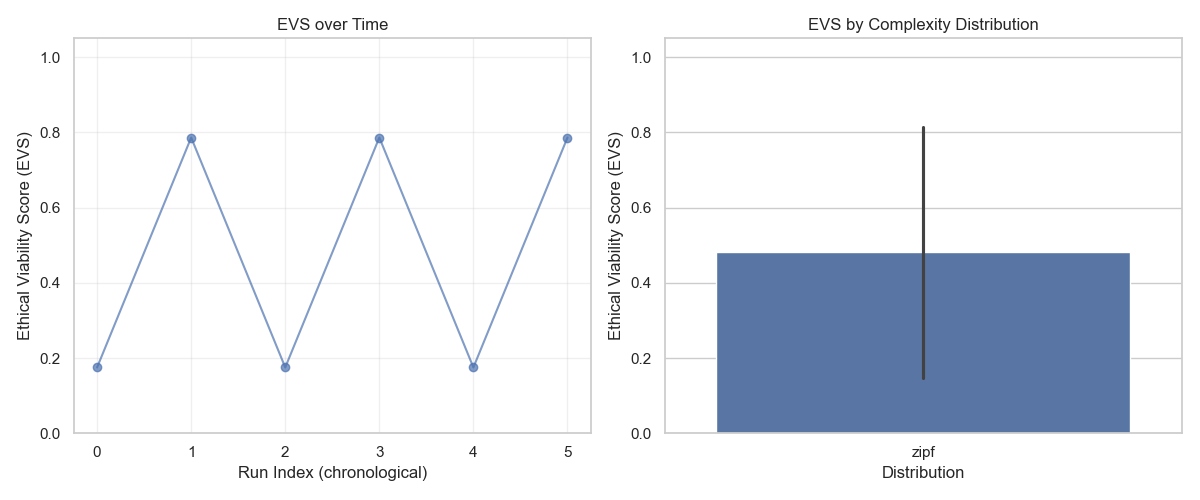
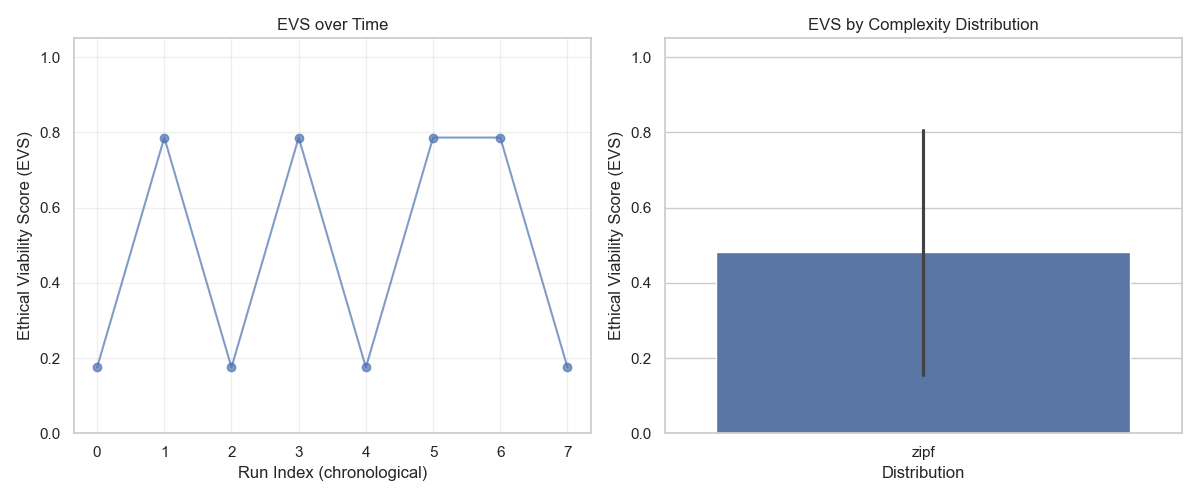
Add Phase 3 plan, docs and updated simulation results
Add a Phase 3 architecture & thesis plan (.cursor/plans/erh_phase3_architecture_thesis.plan.md). Update README formatting and document V(a) proxies and pipeline (HuggingFaceEthicalOracle, GroundTruthProxy.load_from_csv, OracleDrivenJudge). Extend LaTeX paper to mention the HuggingFace oracle and CSV/Oracle-driven judge. Refresh final report figures and summary (timestamp and total experiments increased). Add new simulation result artifacts (results/sim_result_zipf_... id0/id1) and update simulation output (phase_transition_results.json and figure) with revised error rates, stability values, and disable oracle/csv proxy in the phase transition output.

diff --git a/ethical_riemann_hypothesis.tex b/ethical_riemann_hypothesis.tex
@@ -142,7 +142,8 @@ Since $V(a)$ is epistemically inaccessible in the real world, we operationalize 
 \begin{itemize}
     \item \textbf{RLHF and human annotation}: High-quality human-labeled datasets (e.g., pairwise preferences used in reinforcement learning from human feedback) provide a practical proxy. We use annotator agreement and confidence scores to define $V(a)$.
     \item \textbf{Bradley-Terry model}: From pairwise preferences $(a_i \succ a_j)$ we infer latent scores via the Bradley-Terry model, yielding a scalar $V(a) \in [-1, 1]$ per action.
-    \item \textbf{Implementation}: Our framework supports \texttt{GroundTruthProxy.from\_mock\_rlhf()} for simulation and \texttt{load\_from\_csv()} for empirical datasets.
+    \item \textbf{HuggingFace Oracle}: Pre-trained models (e.g., \texttt{unitary/toxic-bert}) score action text as $V(a)$; less toxic $\mapsto$ more ethical. \texttt{HuggingFaceEthicalOracle} maps toxicity to $[-1,1]$ with JSON cache.
+    \item \textbf{Implementation}: Our framework supports \texttt{GroundTruthProxy.from\_mock\_rlhf()} for simulation, \texttt{load\_from\_csv()} for empirical datasets, and \texttt{OracleDrivenJudge} with optional \texttt{csv\_proxy} (CSV-first, Oracle fallback).
 \end{itemize}
 
 \textbf{Limitations}: Different proxies introduce different biases. Annotator disagreement, sampling noise, and cultural variation affect the approximation quality. ERH analysis remains heuristic when $V(a)$ is proxy-based.
@@ -472,10 +473,14 @@ Both are needed to assess judgment system quality.
 \toprule
 \textbf{Judge} & \textbf{Mistake Rate} & \textbf{MAE} & \textbf{F1} & $\bm{\alpha}$ & \textbf{ERH} & \textbf{Interpretation} \\
 \midrule
+\IfFileExists{simulation/output/figures/comparison_table_rows.tex}{%
+    \input{simulation/output/figures/comparison_table_rows.tex}%
+}{%
 Biased & [TBD] & [TBD] & [TBD] & [TBD] & [YES/NO] & [TBD] \\
 Noisy & [TBD] & [TBD] & [TBD] & [TBD] & [YES/NO] & [TBD] \\
 Conservative & [TBD] & [TBD] & [TBD] & [TBD] & [YES/NO] & [TBD] \\
 Radical & [TBD] & [TBD] & [TBD] & [TBD] & [YES/NO] & [TBD] \\
+}%
 \bottomrule
 \end{tabular}
 \end{table}

diff --git a/README.md b/README.md
@@ -1,4 +1,5 @@
 # Ethical Riemann Hypothesis (ERH)
+
 - https://pypi.org/project/erh/0.1.0/
 - https://www.npmjs.com/package/erh-js-sdk
 
@@ -23,12 +24,12 @@ This project introduces the **Ethical Riemann Hypothesis (ERH)**. It posits that
 
 ### Analogy with Number Theory
 
-| Number Theory Concept | Ethical Judgment Analogy |
-| :--- | :--- |
-| **Prime Numbers** | Ethical Primes (Critical Misjudgments) |
-| **$\pi(x)$** | $\Pi(x)$ (Count of ethical primes) |
-| **Prime Number Theorem** | Baseline Expectation $B(x)$ |
-| **Riemann Hypothesis** | Ethical Riemann Hypothesis (Bounds on error growth) |
+| Number Theory Concept          | Ethical Judgment Analogy                            |
+| :----------------------------- | :-------------------------------------------------- |
+| **Prime Numbers**        | Ethical Primes (Critical Misjudgments)              |
+| **$\pi(x)$**           | $\Pi(x)$ (Count of ethical primes)                |
+| **Prime Number Theorem** | Baseline Expectation$B(x)$                        |
+| **Riemann Hypothesis**   | Ethical Riemann Hypothesis (Bounds on error growth) |
 
 ---
 
@@ -36,19 +37,19 @@ This project introduces the **Ethical Riemann Hypothesis (ERH)**. It posits that
 
 Below are visualizations generated by the framework, showcasing the distribution of ethical primes and the behavior of the error term.
 
-| Zeta Function Analysis | Error Distribution |
-| :---: | :---: |
+|                                            Zeta Function Analysis                                            |                                            Error Distribution                                            |
+| :-----------------------------------------------------------------------------------------------------------: | :-------------------------------------------------------------------------------------------------------: |
 | ![Zeta Function Visualization](https://github.com/user-attachments/assets/86b7e910-dc49-4d9c-ab6e-bb8dd9dceb2a) | ![Error Distribution Plot](https://github.com/user-attachments/assets/f883510f-b0e5-479c-a792-a93b554618be) |
 
-| Prime Counting Function $\Pi(x)$ | Critical Line Analysis |
-| :---: | :---: |
+|                                     Prime Counting Function$\Pi(x)$                                     |                                          Critical Line Analysis                                          |
+| :-------------------------------------------------------------------------------------------------------: | :------------------------------------------------------------------------------------------------------: |
 | ![Prime Counting Function](https://github.com/user-attachments/assets/421f952c-a732-43fe-8049-6da2dba27e51) | ![Critical Line Analysis](https://github.com/user-attachments/assets/b1543552-036f-43b9-a35e-f058d8641683) |
 
 ---
 
 ## 📂 Project Structure
 
-**Architecture:** `erh_core` is the Single Source of Truth for core logic. The backend (`erh-security-app`) installs the root package in editable mode (`-e ../..`) to use the latest core. `simulation` and `erh` re-export from `erh_core` when available.
+**Architecture:** `erh_core` is the Single Source of Truth for core logic. The backend (`erh-security-app`) installs the root package in editable mode (`-e ../..`) to use the latest core. `simulation` and `erh` re-export from `erh_core` when available. **V(a) proxies**: `HuggingFaceEthicalOracle` (toxicity→ethical score), `GroundTruthProxy.load_from_csv()` (empirical data), `OracleDrivenJudge` (CSV-first, Oracle fallback). **Pipeline**: `run_simulation_batch --mode judge|abm`, `run_phase_transition_exp.py`, `run_full_pipeline.sh`.
 
 ```text
 Ethic-Latex/
@@ -90,16 +91,16 @@ Ethic-Latex/
 ├── tests/                      # Test files
 ├── ethical_riemann_hypothesis.tex  # Main research paper (LaTeX)
 └── requirements.txt            # Python dependencies
-````
+```
 
------
+---
 
 ## ⚡ Installation
 
 ### Prerequisites
 
-  - **Python:** 3.10 or later
-  - **LaTeX Distribution:** (Optional, for compiling the paper)
+- **Python:** 3.10 or later
+- **LaTeX Distribution:** (Optional, for compiling the paper)
 
 ### Python Setup
 
@@ -133,7 +134,7 @@ bibtex ethical_riemann_hypothesis
 pdflatex ethical_riemann_hypothesis.tex
 ```
 
------
+---
 
 ## 🚀 Quick Start
 
@@ -195,13 +196,13 @@ agent = AdversarialAgent(n_actions=500)
 agent.run(max_steps=100)
 ```
 
------
+---
 
 ## ☁ Cloud Deployment
 
-  - **🚀 Streamlit Cloud (Recommended - 5 minutes):** Push to GitHub, then deploy via the Streamlit website.
-  - **📓 Binder (For Notebooks - 2 minutes):** Deploy your notebooks for live access.
-  - **🐳 Docker (Any Platform):**
+- **🚀 Streamlit Cloud (Recommended - 5 minutes):** Push to GitHub, then deploy via the Streamlit website.
+- **📓 Binder (For Notebooks - 2 minutes):** Deploy your notebooks for live access.
+- **🐳 Docker (Any Platform):**
 
 <!-- end list -->
 
@@ -212,7 +213,7 @@ docker run -p 8501:8501 erh-app streamlit run simulation/app.py
 
 See `docs/CLOUD_DEPLOYMENT.md` for detailed guides.
 
------
+---
 
 ## 🔒 ERH-on-Security PoC Design Document
 
@@ -222,110 +223,110 @@ This design document outlines a Proof of Concept (PoC) applying the ERH framewor
 
 ### 1\. Objectives & Scope
 
-| Category | Description |
-| :--- | :--- |
+| Category               | Description                                                                                                                                     |
+| :--------------------- | :---------------------------------------------------------------------------------------------------------------------------------------------- |
 | **Core Problem** | Quantify the rate at which "truly fatal security misjudgments" (structural misjudgments) accumulate as the complexity of project changes grows. |
-| **Hypothesis** | Can we use an ERH-style metric to quantify this **Structural Risk Growth**? |
-| **Scope** | GitLab Merge Request security review pipeline (using SAST/DAST results and post-merge incident data as proxies for ground truth). |
+| **Hypothesis**   | Can we use an ERH-style metric to quantify this**Structural Risk Growth**?                                                                |
+| **Scope**        | GitLab Merge Request security review pipeline (using SAST/DAST results and post-merge incident data as proxies for ground truth).               |
 
 ### 2\. Mapping ERH to Security Context
 
-| ERH Concept | Security Context Mapping |
-| :--- | :--- |
-| **Action ($a$)** | Defined as a **security decision event** for a single **Merge Request (MR)**. |
-| **Complexity ($c(a)$)** | A composite metric of MR size and scope: $c(a) = \text{norm}(\log(1 + \text{lines\_changed}) + \lambda \cdot \text{files\_changed} + \dots)$ |
-| **True Value ($V(a)$)** | **Ground Truth.** $+1$: Safe merge (no post-merge incident/unresolved high issue). $-1$: Unsafe merge (resulted in incident or high-severity issue). |
+| ERH Concept                          | Security Context Mapping                                                                                                                                                                              |
+| :----------------------------------- | :---------------------------------------------------------------------------------------------------------------------------------------------------------------------------------------------------- |
+| **Action ($a$)**             | Defined as a**security decision event** for a single **Merge Request (MR)**.                                                                                                              |
+| **Complexity ($c(a)$)**      | A composite metric of MR size and scope:$c(a) = \text{norm}(\log(1 + \text{lines\_changed}) + \lambda \cdot \text{files\_changed} + \dots)$                                                         |
+| **True Value ($V(a)$)**      | **Ground Truth.** $+1$: Safe merge (no post-merge incident/unresolved high issue). $-1$: Unsafe merge (resulted in incident or high-severity issue).                                        |
 | **Judgment System ($J(a)$)** | **Pipeline Judge ($J_{\text{pipe}}$):** Automated CI/SAST results. **Human Judge ($J_{\text{human}}$):** Reviewer behavior/override. **Combined Judge ($J_{\text{combo}}$).** |
-| **Error ($\Delta(a)$)** | $\Delta(a) = J(a) - V(a)$. |
-| **Ethical Prime ($P$)** | A **Critical Misjudgment** ($M(a)=1$) on a **High-Importance** asset ($w(a)$ in top quantile). |
+| **Error ($\Delta(a)$)**      | $\Delta(a) = J(a) - V(a)$.                                                                                                                                                                          |
+| **Ethical Prime ($P$)**      | A**Critical Misjudgment** ($M(a)=1$) on a **High-Importance** asset ($w(a)$ in top quantile).                                                                                         |
 
 ### 3\. Data Schema Design
 
 #### actions (Core: MR Decisions)
 
-| Column | Type | Description |
-| :--- | :--- | :--- |
-| `action_id` | PK (MR ID) | Unique identifier for the decision event |
-| `lines_added` | int | Complexity factor |
-| `files_changed` | int | Complexity factor |
-| `services_touched`| string[] | Subsystems affected (via path mapping) |
-| `merged_at` | timestamp | Time of merge (nullable) |
+| Column               | Type       | Description                              |
+| :------------------- | :--------- | :--------------------------------------- |
+| `action_id`        | PK (MR ID) | Unique identifier for the decision event |
+| `lines_added`      | int        | Complexity factor                        |
+| `files_changed`    | int        | Complexity factor                        |
+| `services_touched` | string[]   | Subsystems affected (via path mapping)   |
+| `merged_at`        | timestamp  | Time of merge (nullable)                 |
 
 #### ground\_truth
 
-| Column | Type | Description |
-| :--- | :--- | :--- |
-| `action_id` | FK | Link to MR |
-| `V` | float [-1, 1] | **True Value** (Post-merge security impact) |
-| `has_post\_incident`| bool | Flag for incident discovery within observation window |
-| `unresolved\_high`| bool | True if merged with unmitigated high/critical issues |
+| Column                 | Type          | Description                                           |
+| :--------------------- | :------------ | :---------------------------------------------------- |
+| `action_id`          | FK            | Link to MR                                            |
+| `V`                  | float [-1, 1] | **True Value** (Post-merge security impact)     |
+| `has_post\_incident` | bool          | Flag for incident discovery within observation window |
+| `unresolved\_high`   | bool          | True if merged with unmitigated high/critical issues  |
 
 #### derived\_metrics (Calculated on-the-fly or materialized)
 
-| Column | Type | Description |
-| :--- | :--- | :--- |
-| `action_id` | FK | Link to MR |
-| `c` | float | Normalized **Complexity** |
-| `delta` | float | $\Delta(a)$ **Error** |
-| `is_prime` | bool | Flag indicating an **Ethical Prime** |
+| Column        | Type  | Description                               |
+| :------------ | :---- | :---------------------------------------- |
+| `action_id` | FK    | Link to MR                                |
+| `c`         | float | Normalized**Complexity**            |
+| `delta`     | float | $\Delta(a)$ **Error**             |
+| `is_prime`  | bool  | Flag indicating an**Ethical Prime** |
 
 ### 4\. ERH Analysis Flow and Metrics
 
-1.  **Preprocessing:** Ingest GitLab API data (MRs, security reports) and calculate $c(a)$, $V(a)$, $w(a)$, $J(a)$, and prime marking for all actions.
-2.  **ERH-style Metrics:** Compute the following for each judge:
+1. **Preprocessing:** Ingest GitLab API data (MRs, security reports) and calculate $c(a)$, $V(a)$, $w(a)$, $J(a)$, and prime marking for all actions.
+2. **ERH-style Metrics:** Compute the following for each judge:
 
-| Metric | Formula | Description |
-| :--- | :--- | :--- |
-| **Mistake Rate (MR)** | $\frac{1}{N} \sum M(a)$ | Overall misjudgment frequency. |
-| **Prime Count $\Pi(x)$** | Count of primes where $c(a) \leq x$. | Cumulative critical error count by complexity. |
-| **Error Growth $\alpha$** | Fit $|E(x)| \sim C \cdot x^\alpha$ | Log-log linear regression to find the exponent $\alpha$. |
+| Metric                            | Formula                               | Description                                               |
+| :-------------------------------- | :------------------------------------ | :-------------------------------------------------------- |
+| **Mistake Rate (MR)**       | $\frac{1}{N} \sum M(a)$             | Overall misjudgment frequency.                            |
+| **Prime Count $\Pi(x)$**  | Count of primes where$c(a) \leq x$. | Cumulative critical error count by complexity.            |
+| **Error Growth $\alpha$** | Fit$|E(x)| \sim C \cdot x^\alpha$   | Log-log linear regression to find the exponent$\alpha$. |
 
-3.  **Interpretation:** Check if $\alpha$ satisfies the ERH-style boundary. $\alpha \approx 0.5$ implies **Riemann-healthy** system with controlled risk growth. $\alpha \geq 1$ implies systematic degradation.
+3. **Interpretation:** Check if $\alpha$ satisfies the ERH-style boundary. $\alpha \approx 0.5$ implies **Riemann-healthy** system with controlled risk growth. $\alpha \geq 1$ implies systematic degradation.
 
------
+---
 
 ## 📈 Key Results (Expected)
 
 The following table is a placeholder to be filled with simulation results.
 
-| Judge Type | Exponent $\alpha$ | ERH Satisfied? | Growth Rate Interpretation |
-| :--- | :--- | :--- | :--- |
-| **Biased** | TBD | TBD | -- |
-| **Noisy** | TBD | TBD | -- |
-| **Conservative**| TBD | TBD | Low risk, potentially high friction ($\alpha < 0.5$) |
-| **Radical** | TBD | TBD | High risk accumulation, systematic failure ($\alpha \geq 1.0$) |
+| Judge Type             | Exponent$\alpha$ | ERH Satisfied? | Growth Rate Interpretation                                       |
+| :--------------------- | :----------------- | :------------- | :--------------------------------------------------------------- |
+| **Biased**       | TBD                | TBD            | --                                                               |
+| **Noisy**        | TBD                | TBD            | --                                                               |
+| **Conservative** | TBD                | TBD            | Low risk, potentially high friction ($\alpha < 0.5$)           |
+| **Radical**      | TBD                | TBD            | High risk accumulation, systematic failure ($\alpha \geq 1.0$) |
 
------
+---
 
 ## 📚 Documentation and Future Work
 
-  - **Simulation Framework:** See `simulation/README.md`
-  - **Installation Guide:** See `docs/INSTALL.md` (includes venv and optional qiskit/quantum setup)
-  - **Theory:** See `ethical_riemann_hypothesis.tex`
-  - **Tests:** `pytest tests/` (includes `test_quantum_entanglement.py`, psychohistory integration)
+- **Simulation Framework:** See `simulation/README.md`
+- **Installation Guide:** See `docs/INSTALL.md` (includes venv and optional qiskit/quantum setup)
+- **Theory:** See `ethical_riemann_hypothesis.tex`
+- **Tests:** `pytest tests/` (includes `test_quantum_entanglement.py`, psychohistory integration)
 
 ### Applications to AI Ethics
 
 The ERH framework provides:
 
-1.  **Quantitative Criterion**: AI systems should satisfy $|E(x)| = O(\sqrt{x})$.
-2.  **Bias Detection**: Violations of ERH indicate systematic failures.
-3.  **Fairness Analysis**: Ethical primes highlight critical errors on vulnerable groups.
+1. **Quantitative Criterion**: AI systems should satisfy $|E(x)| = O(\sqrt{x})$.
+2. **Bias Detection**: Violations of ERH indicate systematic failures.
+3. **Fairness Analysis**: Ethical primes highlight critical errors on vulnerable groups.
 
 ### Implemented Extensions
 
-  - **Real-world case studies:** Adult Income, COMPAS; script `scripts/calculate_alpha_comparison.py` compares real vs simulated α.
-  - **Quantum judgment:** Optional `simulation/quantum/` (local simulator or IBM Quantum); NumPy fallback when qiskit is unavailable.
-  - **Health monitor:** E(x) vs Riemann bound monitoring (see `erh-security-app` backend `/analysis/health` and frontend).
-  - **Adversarial agent:** `simulation/adversarial.py` for red-team testing (maximizing ethical-prime discovery).
+- **Real-world case studies:** Adult Income, COMPAS; script `scripts/calculate_alpha_comparison.py` compares real vs simulated α.
+- **Quantum judgment:** Optional `simulation/quantum/` (local simulator or IBM Quantum); NumPy fallback when qiskit is unavailable.
+- **Health monitor:** E(x) vs Riemann bound monitoring (see `erh-security-app` backend `/analysis/health` and frontend).
+- **Adversarial agent:** `simulation/adversarial.py` for red-team testing (maximizing ethical-prime discovery).
 
 ### Future Work
 
-  - Apply the framework to more real-world AI systems (e.g., content moderation).
-  - Develop theoretical proofs for ERH boundary conditions.
-  - Explore connections to causal inference.
+- Apply the framework to more real-world AI systems (e.g., content moderation).
+- Develop theoretical proofs for ERH boundary conditions.
+- Explore connections to causal inference.
 
------
+---
 
 ## © Citation and License
 

diff --git a/.cursor/plans/erh_phase3_architecture_thesis.plan.md b/.cursor/plans/erh_phase3_architecture_thesis.plan.md
@@ -1,0 +1,70 @@
+---
+name: ERH Phase 3 Architecture & Thesis
+overview: 延續 Phase 2 完成架構重整、論文審稿強化、量子 LaTeX 小節。對應 cursor.plan.md Part A–E，補齊剩餘項目。
+todos:
+  - id: p3-a1
+    content: A1 強化 V(a)/c(a) 操作定義：補 HuggingFace Oracle、程式引用
+    status: in_progress
+  - id: p3-a2
+    content: A2 ERH 必要條件、比較表（已有骨架，確保 generate 可填）
+    status: pending
+  - id: p3-a3
+    content: A3 ζ_E 零點/極點（已有 line 274，確認完整）
+    status: pending
+  - id: p3-a4
+    content: A4 fig:comparison、圖表（已有，驗證 generate_all_figures）
+    status: pending
+  - id: p3-b
+    content: B3 metrics.py 已用 erh_core；驗證 B4 pytest
+    status: pending
+  - id: p3-c
+    content: C3 plot_social_tension_vs_time、Quantum Ising LaTeX（已有）
+    status: pending
+  - id: p3-d
+    content: D run_simulation_batch、simulation.yml 驗證
+    status: pending
+  - id: p3-e
+    content: E README 架構說明
+    status: pending
+isProject: false
+---
+
+# ERH Phase 3: Architecture & Thesis Improvement
+
+## 與 Phase 2 的銜接
+
+Phase 2 已完成：
+- Quantum Core: compute_ground_state, NumPyMinimumEigensolver
+- HuggingFace Oracle, OracleDrivenJudge, csv_proxy
+- Phase transition: run_phase_transition_exp.py, plot_phase_transition
+- Pipeline: generate_comprehensive_report, CI phase-transition job, run_full_pipeline.sh
+
+## Phase 3 目標（對應 cursor.plan.md）
+
+1. **Part A 論文**：V(a)/c(a) 操作定義、ERH 必要非充分、ζ_E 零點/極點、圖表
+2. **Part B 架構**：erh_core 為 SSOT、erh-security-app 依賴
+3. **Part C 量子**：measure_social_tension、plot_social_tension_vs_time、LaTeX
+4. **Part D Pipeline**：run_simulation_batch --mode abm、EVS、phase transition
+5. **Part E 文檔**：README 架構說明
+
+## 現況檢查
+
+| 項目 | 狀態 |
+|------|------|
+| measure_social_tension() | ✅ simulator.py |
+| calculate_evs() | ✅ statistics.py |
+| plot_social_tension_vs_time | ✅ plots.py |
+| plot_phase_transition_error_vs_complexity | ✅ plots.py |
+| run_simulation_batch --mode abm | ✅ |
+| erh-security-app -e ../.. | ✅ requirements.txt |
+| metrics.py erh_core | ✅ |
+| fig:comparison, ERH 必要條件 | ✅ LaTeX |
+| Approximating V(a) | ✅ LaTeX 3.2 |
+| Operationalizing c(a) | ✅ LaTeX 3.4 |
+
+## 待補項目
+
+1. **A1**：在「Approximating V(a)」小節加入 HuggingFaceEthicalOracle 與 load_from_csv 並存說明
+2. **A2**：確保 generate_comprehensive_report 或 compare_judges 可產出填表用數據
+3. **B4**：pytest 驗證
+4. **E1**：README 架構說明更新

diff --git a/final_report/summary_report.md b/final_report/summary_report.md
@@ -1,8 +1,8 @@
 # ERH Simulation Campaign Report
-**Generated:** 2026-02-08 18:22:52
+**Generated:** 2026-02-08 18:36:00
 
 ## Overview
-- Total Experiments: 6
+- Total Experiments: 8
 - Distributions Tested: zipf
 
 ## Aggregate Statistics
